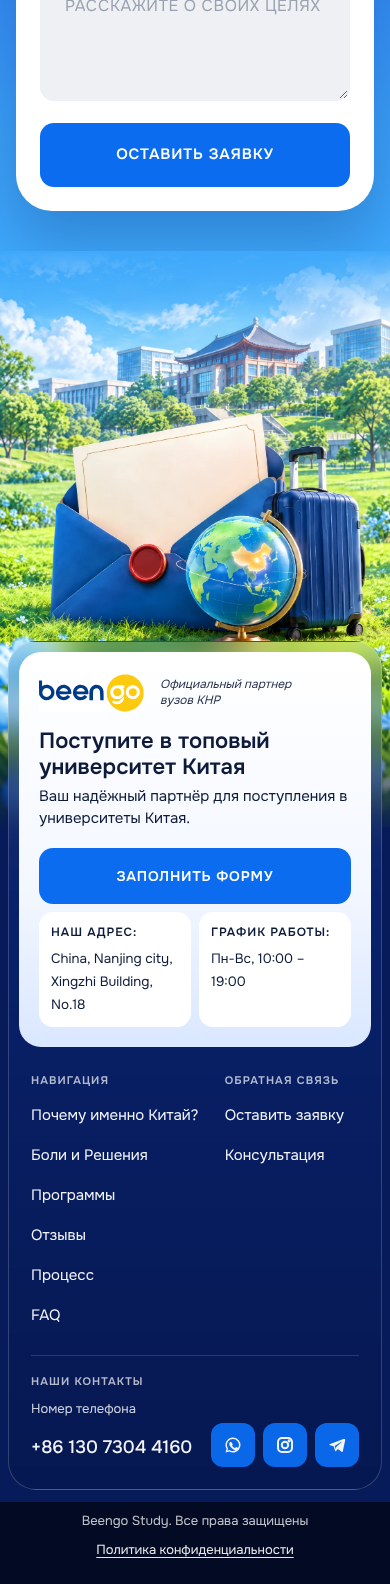
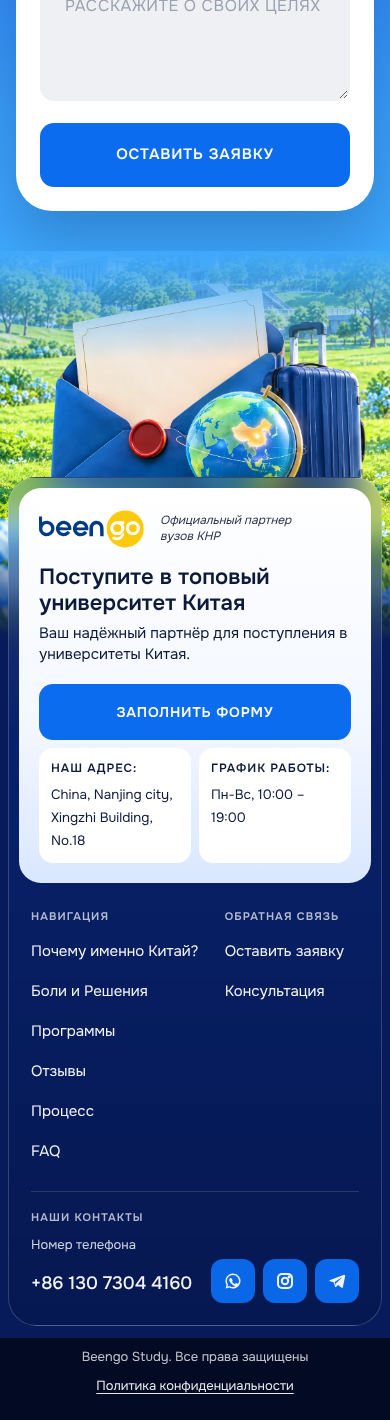
Mobile footer: shorter photo band with soft top fade
Claude-Session: https://claude.ai/code/session_01DveQThDXrjAqWsCdBVYsEN

diff --git a/index.html b/index.html
@@ -922,6 +922,13 @@ a,button,.dd-btn,.dd-opt{touch-action:manipulation}
   .fcols > div:last-child small:nth-of-type(2){display:none}
   .fcols > div:last-child .soc{grid-row:2 / span 2;align-self:end}
 }
+
+@media (max-width:680px){
+  .footer{padding-top:58vw;
+    background:linear-gradient(180deg,#3fa8fa 0%,rgba(63,168,250,.85) 20px,rgba(63,168,250,0) 110px),
+      linear-gradient(180deg,rgba(7,26,90,0) 72vw,#071a5a 100vw) top/100% 100% no-repeat,
+      var(--fimg) center -62vw/100% auto no-repeat,#071a5a}
+}
 </style>
 </head>
 <body>
